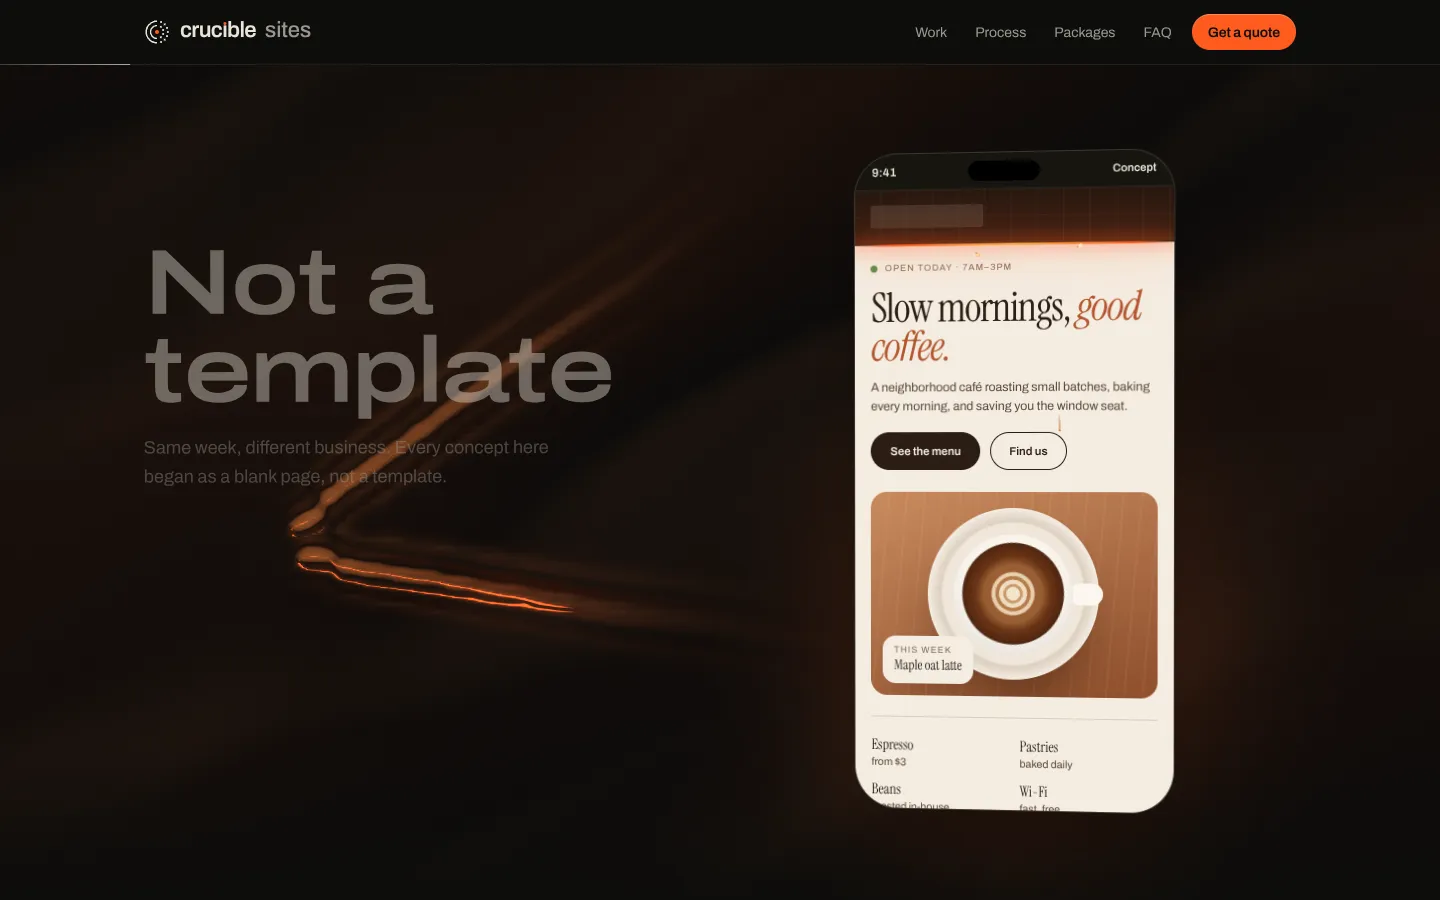
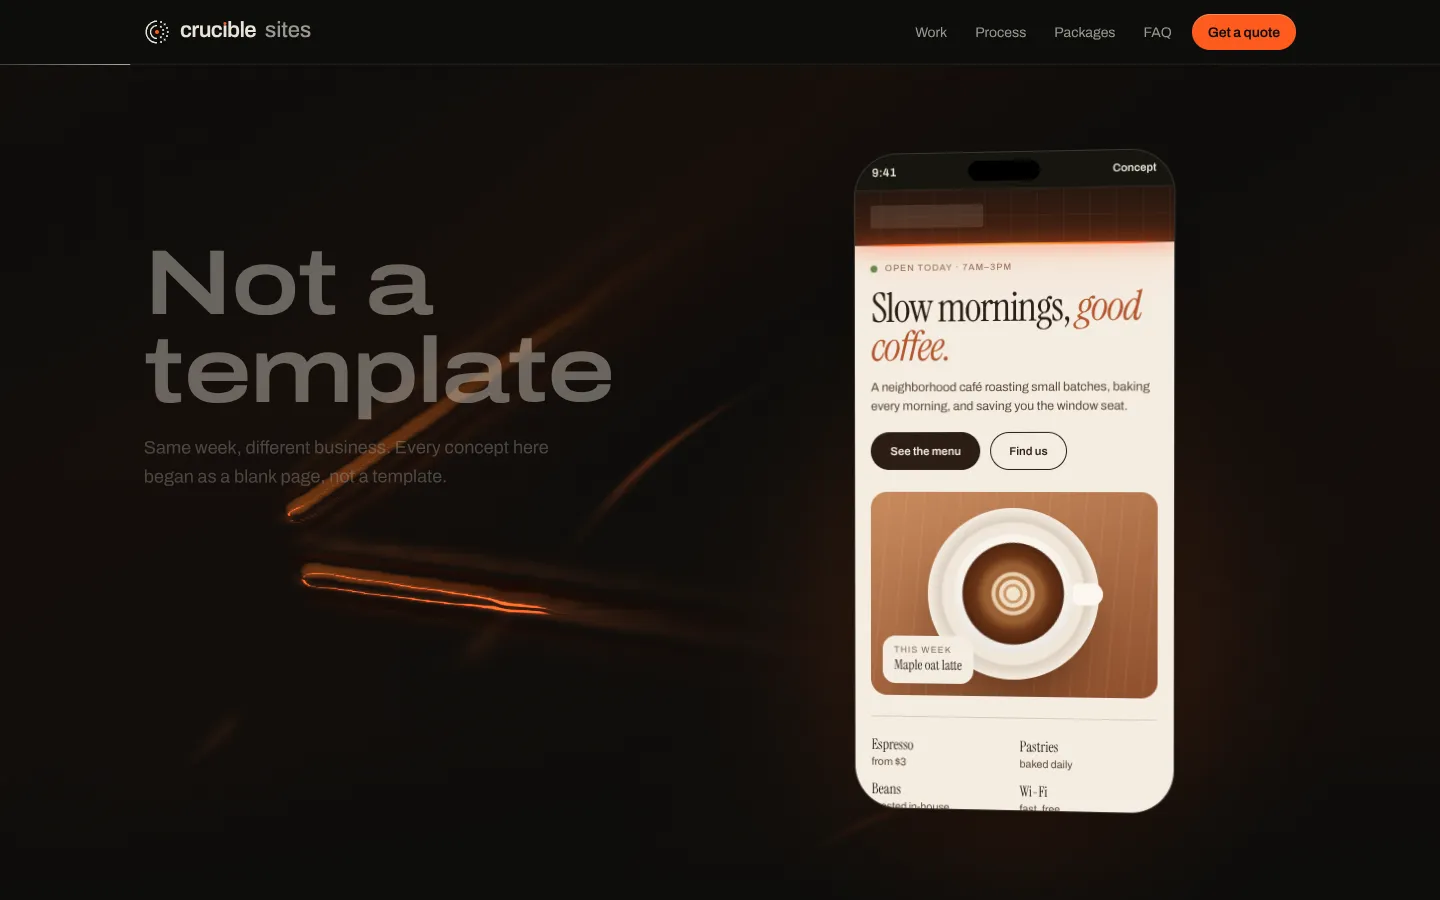
Liquid on the other pages: a near-black skin at rest with a few hairline warm crest lines (lava's review: 940 K, no grey mix, a narrow sheen, no broad bands)
Claude-Session: https://claude.ai/code/session_01PrrUSitYmSR7aDjHHAhibr

Changed region(s): [[0.1875, 0.3733, 0.4375, 0.6844], [0.4375, 0.4978, 0.4688, 0.5289]]

diff --git a/lib/liquid/shader.ts b/lib/liquid/shader.ts
@@ -29,7 +29,7 @@ void main() { gl_Position = vec4(a, 0.0, 1.0); }`;
 /** Look constants (tuned on recorded frames at 1440 and 390, Chromium and WebKit; the look lab overrides them). */
 export const LOOK = {
   relief: 3.4, // interaction waves: slope -> normal tilt (shading exaggeration)
-  reliefSwell: 2.0, // the idle swell, for the environment only (a faint broad sheen)
+  reliefSwell: 0.8, // the idle swell, for the environment only (a faint broad sheen)
   key: [-0.2, 0.5, 0.84], // direction to the warm key light (x right, y down the screen, z out of it)
   soft: 48, // Blinn-Phong exponent of the soft lobe (the warm body of lit faces)
   softK: 0.2, // its strength (x Ember)
@@ -39,20 +39,20 @@ export const LOOK = {
   crisp: [0.002, 0.005] as number[], // curvature (|laplacian|, 1/px) over which a glint fades in: off when [0, 0]
   shade: 0.15, // faces tilted away from the key (towards the top of the screen) fall into a light shadow (0..1)
   dip: -0.01, // how much darker than the swell's own sheen a wave may reflect (sky units): never a hole
-  env: [0.15, 0.06, 0.035], // the sky's brightest (the night over a molten sea: dark red), towards the top of the screen
+  env: [0.1, 0.035, 0.02], // the sky's brightest (the night over a molten sea: dark red), towards the top of the screen
   envW: 0.38, // its spread (tilt)
   caustic: 0.025,
   crest: [0.16, 0.003, 0.022] as number[], // interaction crests from any direction catch a soft warm light: strength, over
   // the curvature (-laplacian, 1/px) where it fades in (the key alone only lights crests facing the bottom edge)
-  sheen: [0.085, 0.032, 0.016] as number[], // the swell's sheen at its brightest (added to the ground): molten red
-  sheenRelief: 9, // the swell: slope -> normal tilt for its sheen (its slopes are tiny)
-  sheenExp: 9, // the sheen's lobe (broad: a soft light, not a glint)
+  sheen: [0.45, 0.15, 0.05] as number[], // the swell's sheen at its brightest (added to the ground): molten red
+  sheenRelief: 25, // the swell: slope -> normal tilt for its sheen (enough that its steepest faces pass the key)
+  sheenExp: 600, // the sheen's lobe: only swell faces turned right to the key strip, so a few thin warm lines, never bands
   // The molten body under a thin cooler skin (lava's model, lib/world/glsl/lava.glsl, seen from straight above): it
   // glows with a true blackbody (Planck at 600/550/460 nm, as look_planck), dimmed by Fresnel (Kirchhoff) and by the
   // skin's path. At rest it is a deep, dark red (the page must stay dark under its text); the swell's troughs, where
   // the skin is pulled thin, glow a little hotter, so the long waves read; the visitor's waves stretch it and glow
   // hotter still, so a wake is a brief line of Ember turning amber. Hotter = brighter AND yellower, never pink.
-  T: 975, // K at rest
+  T: 940, // K at rest: near-black deep red (975 read as a brown haze)
   troughK: 36, // K added at the swell's deepest trough (heights / troughH, clamped to 1)
   troughH: 4, // px
   wakeK: [140, 1.6, 0.03] as number[], // K: + a * (1 - exp(-b * stretch / c)), stretch = |laplacian| + slope / 30
@@ -96,7 +96,7 @@ vec3 planck(float T) {
   vec3 b = 1.0 / (l5 * (exp(c2 / (lam * max(T, 300.0))) - 1.0));
   float g5 = 550e-9 * 550e-9 * 550e-9 * 550e-9 * 550e-9;
   vec3 rgb = b * (g5 * (exp(c2 / (550e-9 * 1500.0)) - 1.0));
-  return mix(rgb, vec3(dot(rgb, vec3(0.3333))), 0.12);
+  return rgb; // no grey mix on the page (look_planck mixes 12%): it desaturates the glow toward brown
 }
 const vec3 KEY = ${v3(key)};
 const vec3 HK = ${v3(half)};

diff --git a/lab/pages/NOTES.md b/lab/pages/NOTES.md
@@ -112,6 +112,11 @@ MobileMenu}.tsx` and every component outside `components/world`, `app/{sites,wor
   `/` 98-99/100/100/100 (TBT 42 ms). world:smoke ok. qa asked to make world.spec `start()` keep moving the mouse
   inside its poll (one move can land before hydration under load: flaky 1 in 3).
 
+- (15:05) Lava's review applied to the pages' liquid: 940 K at rest (near-black deep red, not brown), no grey mix in
+  the Planck, the mirrored night halved and the swell's tilt for it 2 → 0.8 (no broad diagonal bands), and the swell's
+  sheen a narrow lobe (exp 600, tilt ×25) so only its steepest faces flash: a few hairline warm crest lines. Rest
+  background p50 0.0046, p99 ≤ 0.012, max 0.07 on a hairline. Wake unchanged. Frames: lab/pages/shots/sites-lava-*.
+
 ## Decisions
 - (14:55) Software GL gets no idle start on the home page: Lighthouse and CI have no GPU, real visitors do; GPU-less
   visitors see the designed still until they touch or scroll, then the world.
